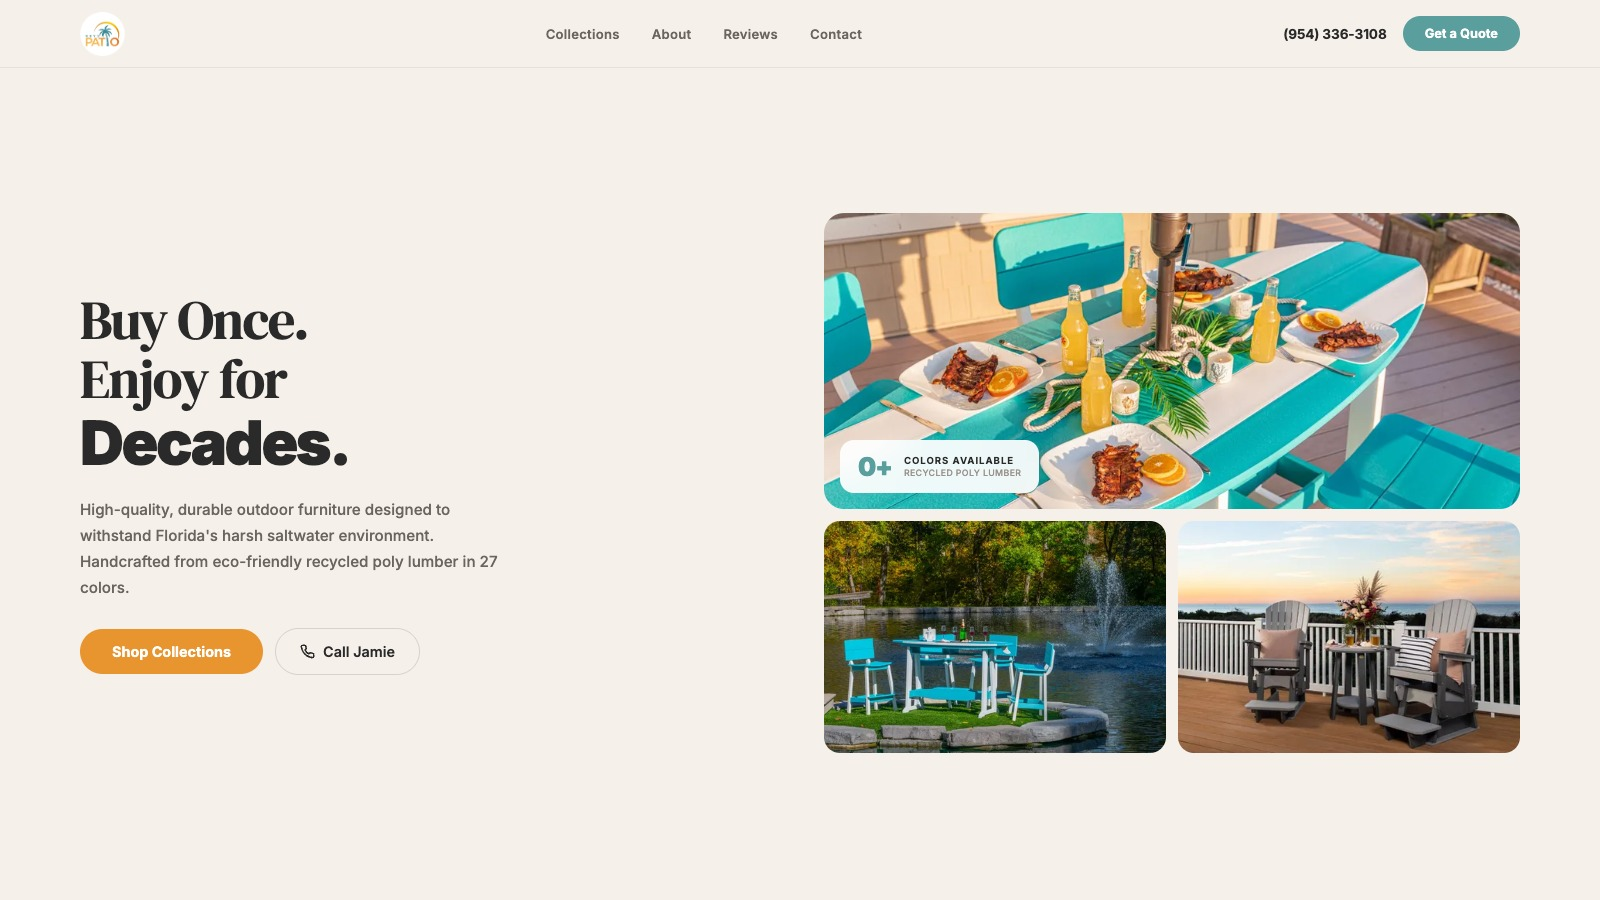
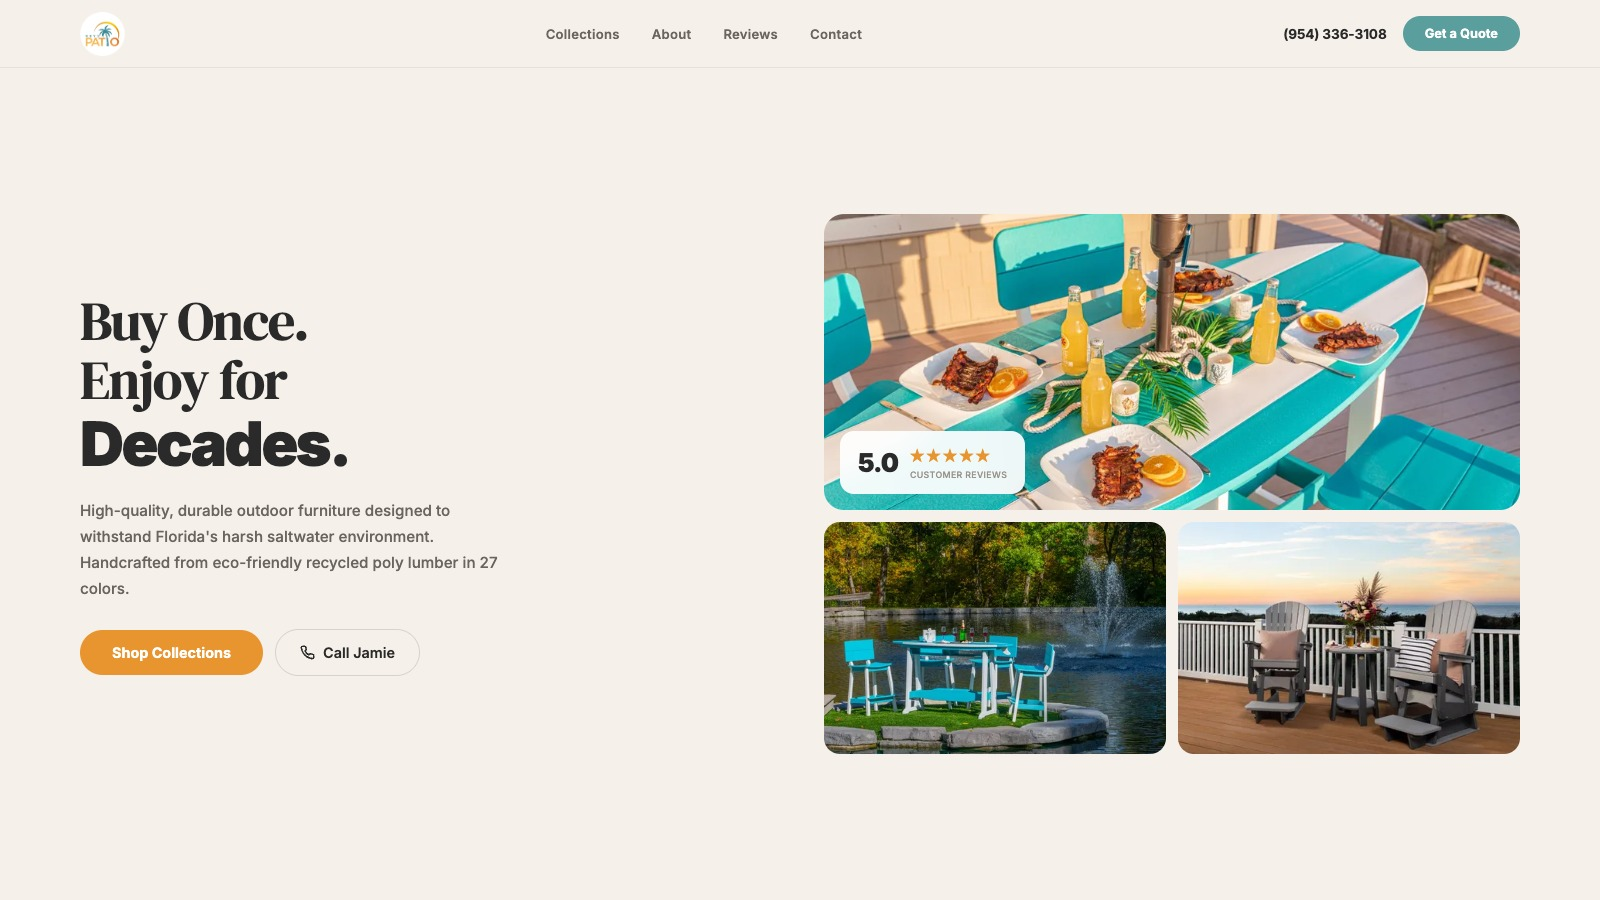
Remove stats section, replace hero badge with 5.0★ reviews animation
- Removed 27+ / 100% / 5.0★ stats row below hero
- Hero badge now shows 5.0 with animated orange stars that pop in sequentially
- Rating counts up from 0.0 to 5.0 with easeOutExpo

diff --git a/p/keys-patio-key-largo/index.html b/p/keys-patio-key-largo/index.html
@@ -81,17 +81,16 @@ nav{height:68px;background:var(--cream);display:flex;align-items:center;justify-
 .hero-photo-sm{border-radius:16px;overflow:hidden}
 .hero-photo-sm img{width:100%;height:100%;object-fit:cover}
 .hero-badge{position:absolute;bottom:16px;left:16px;background:rgba(255,255,255,.92);backdrop-filter:blur(12px);-webkit-backdrop-filter:blur(12px);border-radius:14px;padding:14px 18px;display:flex;align-items:center;gap:12px;z-index:3}
-.hero-badge-num{font-family:'Inter',sans-serif;font-size:1.6rem;font-weight:900;color:var(--teal);letter-spacing:-.04em;line-height:1}
+.hero-badge-num{font-family:'Inter',sans-serif;font-size:1.6rem;font-weight:900;color:var(--dark);letter-spacing:-.04em;line-height:1}
+.hero-badge-stars{display:flex;gap:2px;margin-bottom:2px}
+.hero-badge-star{color:var(--orange);font-size:.9rem;opacity:0;transform:scale(0);display:inline-block}
+.hero-badge-star.on{animation:starPop .35s cubic-bezier(.34,1.56,.64,1) forwards}
+@keyframes starPop{to{opacity:1;transform:scale(1)}}
 .hero-badge-text{display:flex;flex-direction:column}
 .hero-badge-label{font-size:.6rem;font-weight:700;letter-spacing:.1em;text-transform:uppercase;color:var(--dark);line-height:1.3}
 .hero-badge-sub{font-size:.55rem;font-weight:500;color:var(--muted);letter-spacing:.04em;text-transform:uppercase}
 
-/* STATS */
-.stats{padding:16px clamp(24px,5vw,80px) 32px;display:flex;align-items:flex-start;gap:clamp(32px,6vw,80px)}
-.stat{display:flex;flex-direction:column}
-.stat-num{font-family:'Inter',sans-serif;font-size:clamp(2rem,3.4vw,2.8rem);font-weight:900;color:var(--dark);letter-spacing:-.04em;line-height:1}
-.stat-num .accent{color:var(--teal)}
-.stat-label{font-size:.72rem;font-weight:600;color:var(--muted);margin-top:4px;letter-spacing:.02em;line-height:1.4}
+/* STATS — removed */
 
 /* FEATURED BAND */
 .featured-band{position:relative;margin:0 clamp(24px,5vw,80px);border-radius:24px;background:var(--teal);padding:0;display:grid;grid-template-columns:1fr 1fr;align-items:stretch;overflow:hidden;min-height:320px}
@@ -274,10 +273,16 @@ footer{padding:32px clamp(24px,5vw,80px);display:flex;align-items:center;justify
     <div class="hero-photo-main">
       <img src="https://img1.wsimg.com/isteam/ip/f95bdbdc-f767-463a-95a0-39045cf18466/Beach_SB5_7097.jpg/:/rs=w:900,m" alt="Keys Patio beach furniture photoshoot" loading="eager">
       <div class="hero-badge">
-        <div class="hero-badge-num" id="heroCounter">0+</div>
+        <div class="hero-badge-num" id="heroRating">5.0</div>
         <div class="hero-badge-text">
-          <div class="hero-badge-label">Colors Available</div>
-          <div class="hero-badge-sub">Recycled Poly Lumber</div>
+          <div class="hero-badge-stars" id="heroStars">
+            <span class="hero-badge-star">&#9733;</span>
+            <span class="hero-badge-star">&#9733;</span>
+            <span class="hero-badge-star">&#9733;</span>
+            <span class="hero-badge-star">&#9733;</span>
+            <span class="hero-badge-star">&#9733;</span>
+          </div>
+          <div class="hero-badge-sub">Customer Reviews</div>
         </div>
       </div>
     </div>
@@ -290,21 +295,6 @@ footer{padding:32px clamp(24px,5vw,80px);display:flex;align-items:center;justify
   </div>
 </section>
 
-<!-- STATS -->
-<section class="stats">
-  <div class="stat">
-    <div class="stat-num"><span class="accent">27+</span></div>
-    <div class="stat-label">Color<br>Options</div>
-  </div>
-  <div class="stat">
-    <div class="stat-num">100%</div>
-    <div class="stat-label">Recycled<br>Poly Lumber</div>
-  </div>
-  <div class="stat">
-    <div class="stat-num">5.0 <span class="accent">★</span></div>
-    <div class="stat-label">Customer<br>Reviews</div>
-  </div>
-</section>
 
 <!-- FEATURED BAND -->
 <section class="featured-band">
@@ -502,22 +492,27 @@ footer{padding:32px clamp(24px,5vw,80px);display:flex;align-items:center;justify
   setInterval(function(){go(idx+1)},6000);
 })();
 
-// COUNTER
+// RATING + STARS ANIMATION
 function startCounter(){
-  var el=document.getElementById('heroCounter');
+  var el=document.getElementById('heroRating');
+  var stars=document.querySelectorAll('.hero-badge-star');
   if(!el)return;
-  var target=27;
-  var dur=1600;
+  // Animate rating number from 0.0 to 5.0
+  var dur=1200;
   var t0=null;
   function ease(t){return 1-Math.pow(2,-10*t)}
   function tick(ts){
     if(!t0)t0=ts;
     var p=Math.min((ts-t0)/dur,1);
-    var val=Math.round(target*ease(p));
-    el.textContent=val+'+';
-    if(p<1)requestAnimationFrame(tick);else el.textContent='27+';
+    var val=(5*ease(p)).toFixed(1);
+    el.textContent=val;
+    if(p<1)requestAnimationFrame(tick);else el.textContent='5.0';
   }
   setTimeout(function(){requestAnimationFrame(tick)},400);
+  // Pop stars in one by one
+  stars.forEach(function(s,i){
+    setTimeout(function(){s.classList.add('on')},500+i*120);
+  });
 }
 </script>
 </body>
